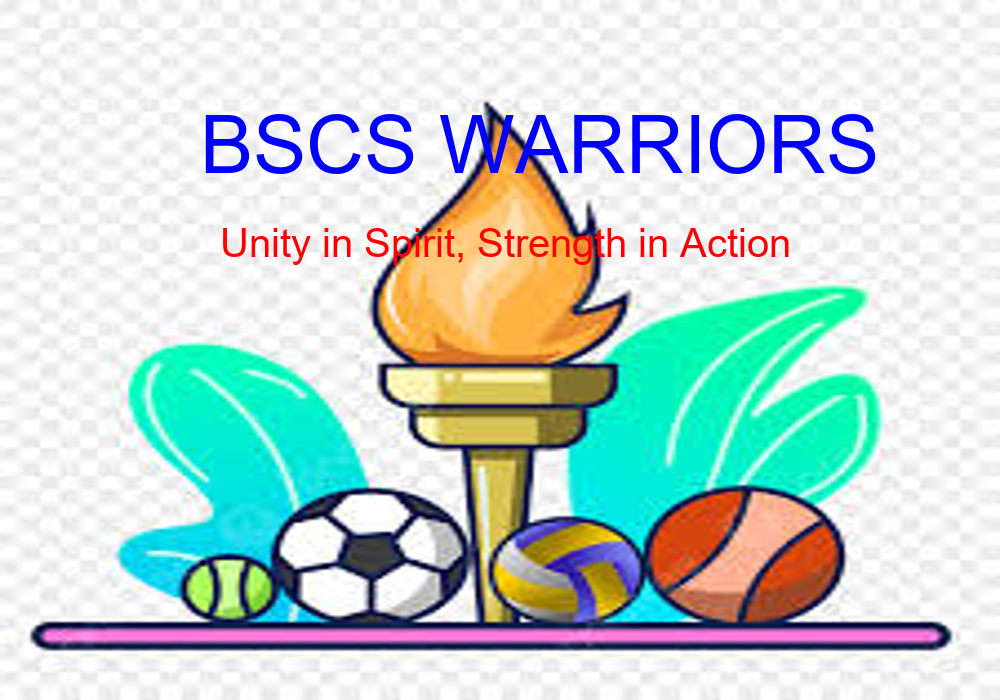
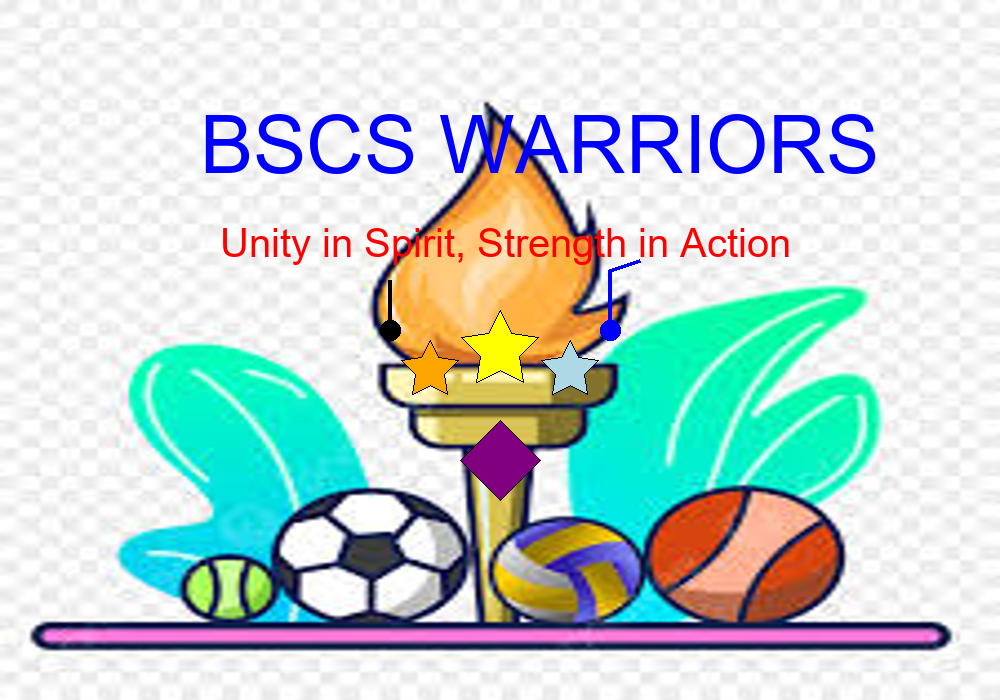
Add files via upload

diff --git a/csposter.py b/csposter.py
@@ -1,9 +1,9 @@
 from PIL import Image, ImageDraw, ImageFont
+import math
 
 
-bg = Image.open("intrams.jpg")  # replace with your own file name
-bg = bg.resize((1000, 700))  # resize to fit poster size
-
+bg = Image.open("intrams.jpg") 
+bg = bg.resize((1000, 700))  
 
 draw = ImageDraw.Draw(bg)
 
@@ -15,10 +15,40 @@ except:
     font_title = ImageFont.load_default()
     font_slogan = ImageFont.load_default()
 
+
 draw.text((200, 100), "BSCS WARRIORS", font=font_title, fill="blue")
 draw.text((220, 220), "Unity in Spirit, Strength in Action", font=font_slogan, fill="red")
 
 
+def draw_star(draw, cx, cy, r, fill_color):
+    points = []
+    for i in range(10):
+        angle = math.radians(i * 36)  # 360/10 = 36
+        radius = r if i % 2 == 0 else r / 2
+        x = cx + radius * math.cos(angle - math.pi/2)
+        y = cy + radius * math.sin(angle - math.pi/2)
+        points.append((x, y))
+    draw.polygon(points, fill=fill_color, outline="black")
+
+
+draw_star(draw, 500, 350, 40, "yellow")
+draw_star(draw, 430, 370, 30, "orange")
+draw_star(draw, 570, 370, 30, "lightblue")
+
+
+diamond_points = [(500, 420), (540, 460), (500, 500), (460, 460)]
+draw.polygon(diamond_points, fill="purple", outline="black")
+
+
+draw.ellipse((380, 320, 400, 340), fill="black")   
+draw.line((390, 320, 390, 280), fill="black", width=4)  
+
+
+draw.ellipse((600, 320, 620, 340), fill="blue")    
+draw.line((610, 320, 610, 270), fill="blue", width=4)  
+draw.line((610, 270, 640, 260), fill="blue", width=4)  
+
+
 bg.save("PROFELEC2_4_PiocKessiahJoy_Activity1.png")
-print("Poster created successfully with background!")
+print("Poster created successfully with perfect stars, diamond, and music notes!")
 bg.show()
